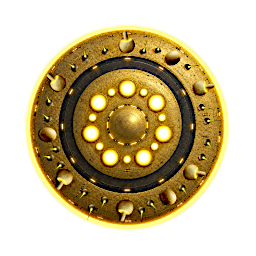
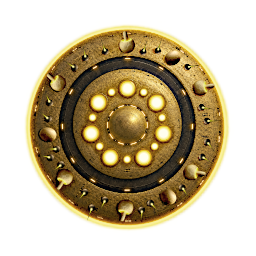
Citadel img

diff --git a/source/server/model/ships/kirishiac/kirishiacCitadel.php b/source/server/model/ships/kirishiac/kirishiacCitadel.php
@@ -7,7 +7,7 @@ class kirishiacCitadel extends StarBaseSixSections{
 		$this->pointCost = 30000;
 		$this->faction = "Kirishiac Lords";     
         $this->phpclass = "kirishiacCitadel";
-        $this->imagePath = "img/ships/KirishiacCitadel.png";
+        $this->imagePath = "img/ships/kirishiacCitadel2.png";
         $this->canvasSize = 280;
         $this->shipClass = "Citadel Starbase";
         $this->isd = 'Ancient';
